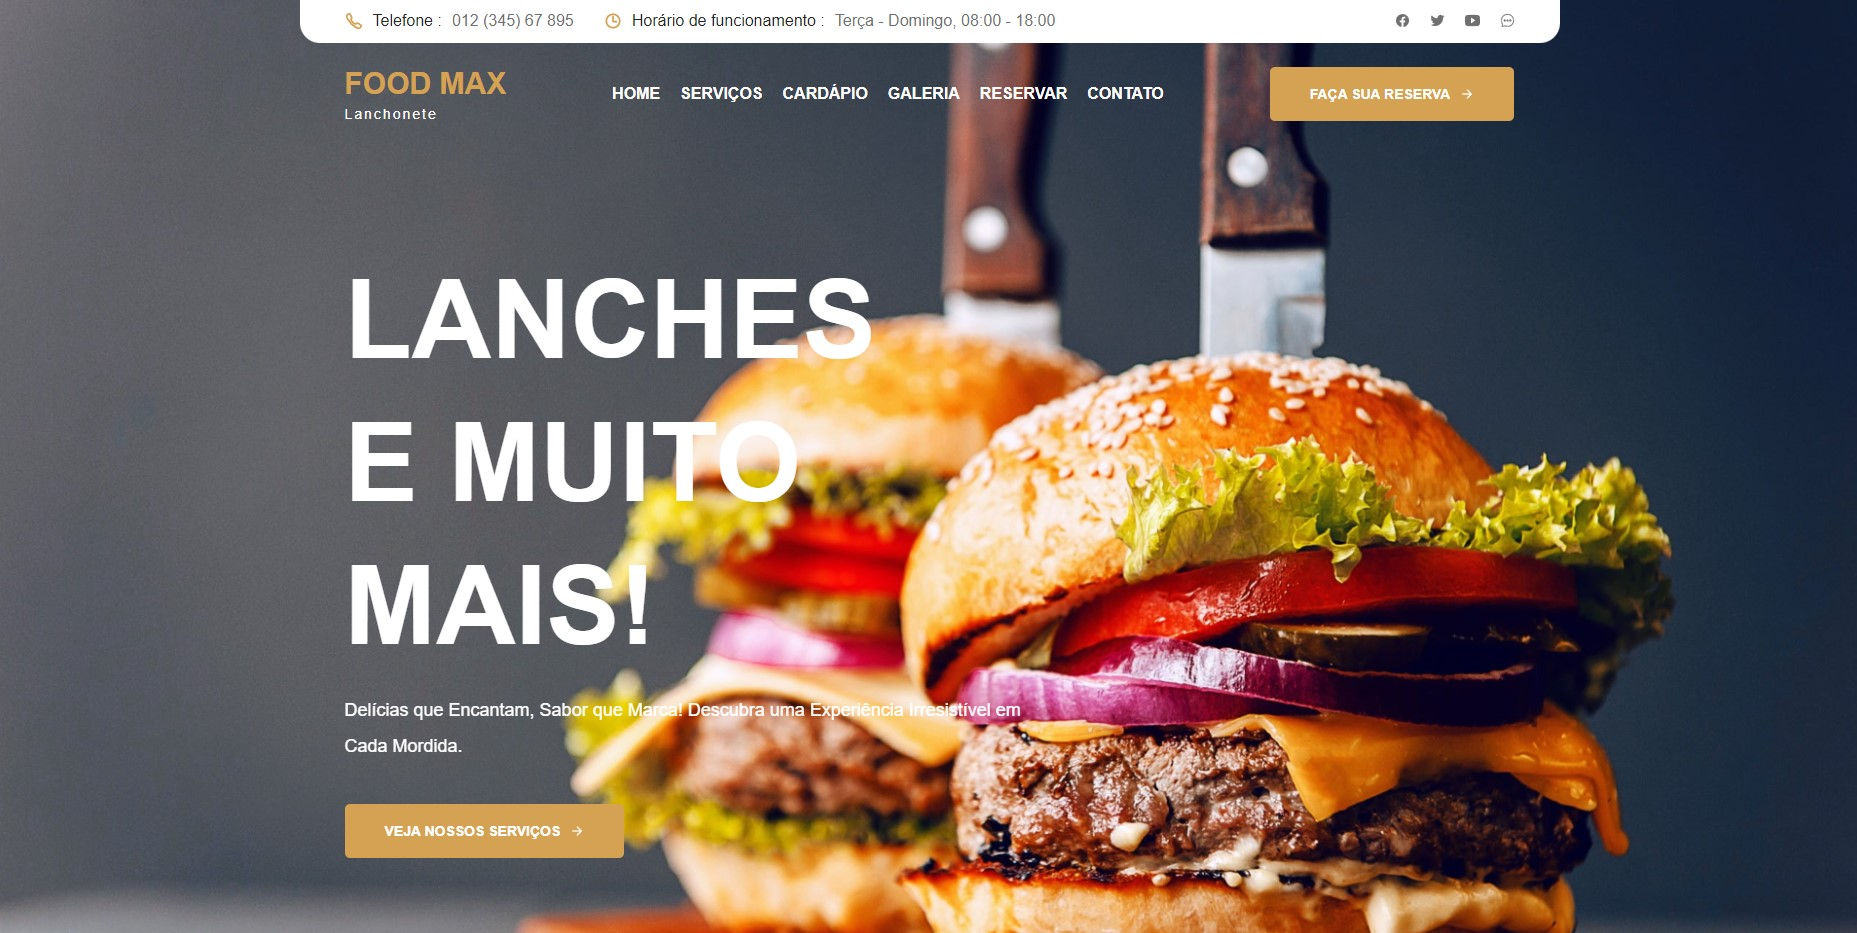
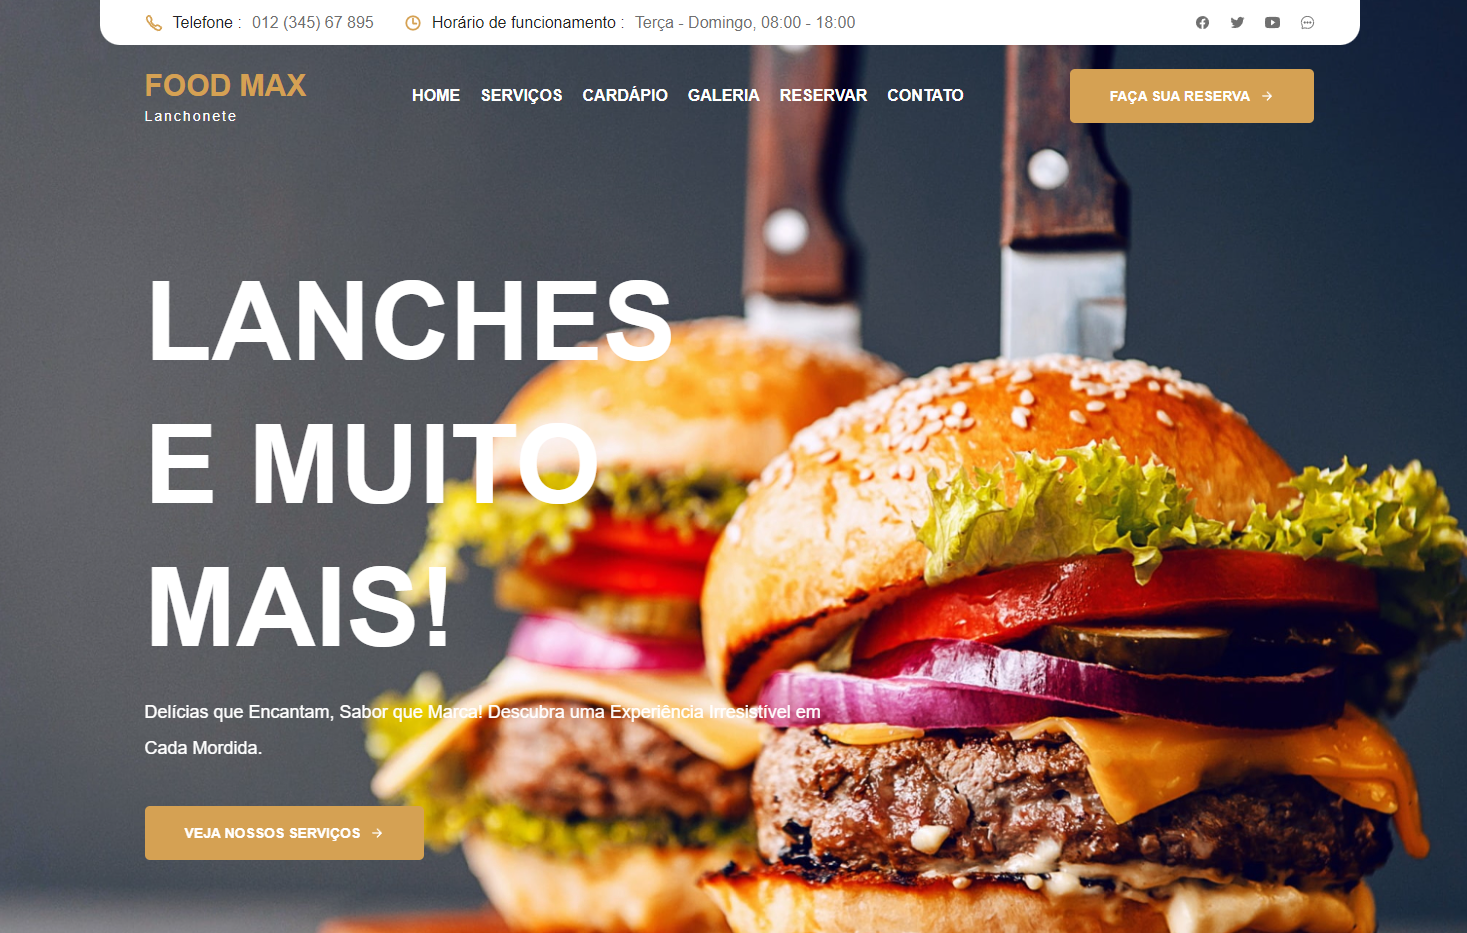
color changes

diff --git a/src/components/Projects/ProjectsList.jsx b/src/components/Projects/ProjectsList.jsx
@@ -14,13 +14,14 @@ import gradeCalculatorImg from "../../assets/img/projects/grade-calculator-img.p
 import gasCalculatorImg from "../../assets/img/projects/gas-calculator-img.png";
 import portifolio1 from "../../assets/img/projects/portifolio-1-img.png";
 import portifolio2 from "../../assets/img/projects/portifolio-2-img.png";
+import fastFoodImg from "../../assets/img/projects/fast-food-site.png";
 
 export const projectsList = [
   {
     title: "Fast Food Landing Page",
     description:
       "Projeto de Landing Page de FastFood com design clean e foco em eficiência. Destaque para imagens simplificadas, menu interativo e área de reserva, proporcionando uma experiência ágil e amigável para usuários.",
-    imgUrl: landingPage1Img,
+    imgUrl: fastFoodImg,
     linkOnline: "https://javascript-food-site.vercel.app",
     linkGitHub: "https://github.com/LucaswmLima/javascript-food-site",
     technologies: ["Javascript", "Figma"],

diff --git a/src/App.css b/src/App.css
@@ -10,16 +10,16 @@
   --black-color: #000;
 
   /*Component colors*/
-  --main-bg-color: #121212;
-  --secondary-bg-color: #fbfbfd;
-  --navbar-color: #121212;
+  --main-bg-color: #000;
+  --secondary-bg-color: rgb(245, 245, 247);
+  --navbar-color: rgba(22, 22, 23, .8);
 
   /*Font colors*/
   --message-success-color: #008000;
   --message-alert-color: #ffff00;
   --banner-font-color: #fbfbfd;
   --white-font-color: #fbfbfb;
-  --black-font-color: #121212;
+  --black-font-color: #1d1d1f;
 
   /*Font sizes*/
   --banner-font-size: 70px;
@@ -106,6 +106,7 @@ p.danger {
 
 /************ Navbar Css ************/
 nav.navbar {
+  backdrop-filter: blur(20px);
   padding: 18px 0;
   position: fixed;
   width: 100%;
